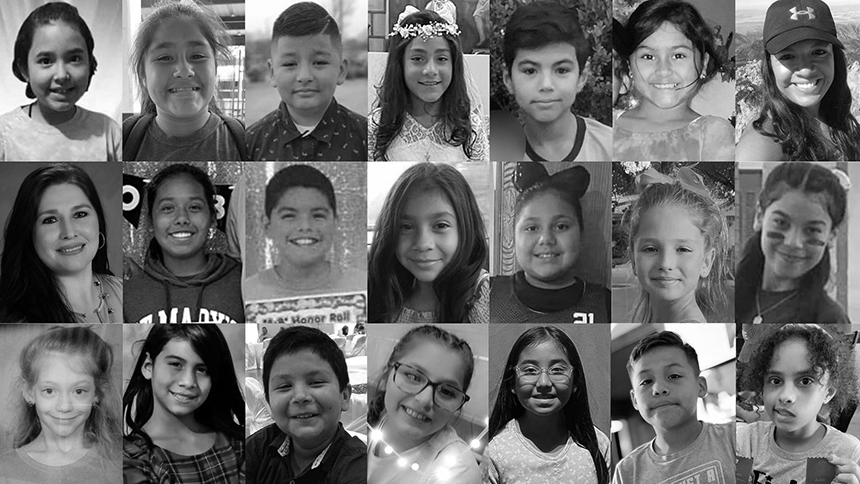
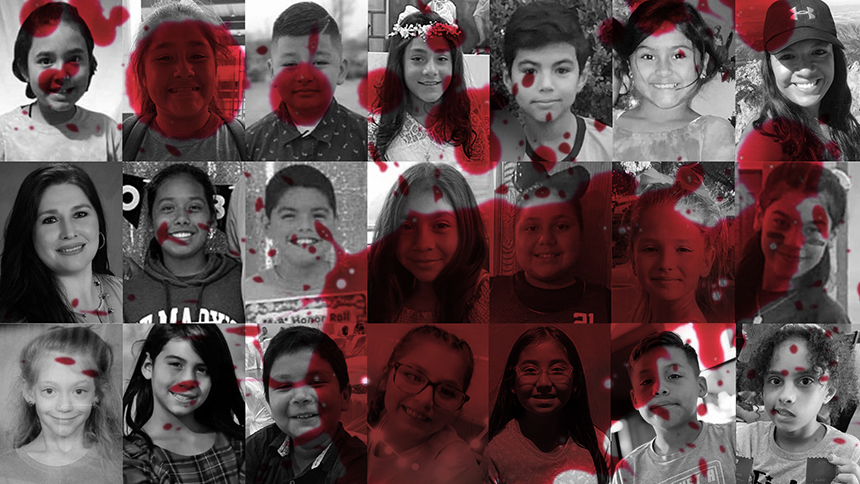
updated

diff --git a/sketch.js b/sketch.js
@@ -10,9 +10,9 @@ let particles = [];
 let coverfont, storyfont,shoot;
 
 function preload() {
-    coverOneImage = loadImage("image/gunandrose.png"); 
-    page2Aim = loadImage("image/aim.png");
-    roseforpg2 = loadImage("image/rose2.png");
+    coverOneImage = loadImage("image/cover.jpg"); 
+    page2Aim = loadImage("image/aim2.png");
+    heartforpg2 = loadImage("image/heart.png");
     Bullet = loadImage("image/bulle.png");
     Victims = loadImage("victims.jpg");
     img = loadImage('victims.jpg');
@@ -32,7 +32,7 @@ function setup() {
 function draw() {
     background(greybgcolor);
     currentScene.display();
-    if (currentScene instanceof PageFour) {
+    if (currentScene instanceof PageFive) {
         currentScene.update();
     }
 }
@@ -59,10 +59,13 @@ class CoverOne {
     }
 
     display() {
-        let x = (width - 600) / 2;
-        let y = (height - 480 - 100) / 2;
-        image(this.img, x, y, 600, 480); 
+        // let x = (width - 600) / 2;
+        // let y = (height - 480 - 100) / 2;
+        let x =0 ;
+        let y =0 ;
+        image(this.img, x, y, 800, 600); 
         fill(this.buttonColor);
+        noStroke();
         rect(this.button.x, this.button.y, this.button.w, this.button.h);
         fill(255);
         textSize(25);
@@ -80,8 +83,9 @@ class CoverOne {
 class PageTwo {
     constructor() {
         this.aim = page2Aim;
-        this.rose = roseforpg2;
+        this.heart = heartforpg2;
         this.bullet = Bullet;
+        // to replace my mouse
     }
 
     display() {
@@ -102,11 +106,11 @@ class PageTwo {
             } else {
                 this.roseHovered = false; // Mouse is not over the rose
             }
-            image(this.rose, 100 + offsetX, 200, scaledRoseWidth, scaledRoseHeight); // Adjust size
+            image(this.heart, 100 + offsetX, 200, scaledRoseWidth, scaledRoseHeight); // Adjust size
         }
-        let constrainedMouseX = constrain(mouseX-400, -200, 800 - 600);
-        let constrainedMouseY = constrain(mouseY-200, 0, 600 - 450);
-        image(this.aim, constrainedMouseX, constrainedMouseY, img.width, 500);
+        let constrainedMouseX = constrain(mouseX-150, 0, 600);
+        let constrainedMouseY = constrain(mouseY-150, 0, 600);
+        image(this.aim, constrainedMouseX, constrainedMouseY, 300,300);
         for (let i = 0; i < 3; i++) {
             let offsetX = i * 80;
             image(this.bullet, 550 + offsetX, 40, 60, 30);
@@ -138,14 +142,14 @@ class Particle {
         let distanceToTarget = fromParticleToTarget.mag();
         let distanceToMouse = fromMouseToParticle.mag();
 
-        if (distanceToMouse < 100) {
-            let repulsionForce = map(distanceToMouse, 0, 100, MAX_FORCE, MIN_FORCE);
+        if (distanceToMouse < 150) {
+            let repulsionForce = map(distanceToMouse, 0, 200, MAX_FORCE, MIN_FORCE);
             fromMouseToParticle.setMag(repulsionForce);
             totalForce.add(fromMouseToParticle);
         }
 
-        if (distanceToMouse > 100) {
-            let attractionForce = map(distanceToTarget, 0, 100, MIN_FORCE, MAX_FORCE);
+        if (distanceToMouse > 250) {
+            let attractionForce = map(distanceToTarget, 10, 200, MIN_FORCE, MAX_FORCE);
             fromParticleToTarget.setMag(attractionForce);
             totalForce.add(fromParticleToTarget);
         }
@@ -177,10 +181,11 @@ class PageThree {
     display() {
         background(0);
        fill(255);
-  textSize(40);
+
+      textSize(20);
   
   for (let i = 0; i < storyText.length; i++ ){
-  text(storyText[i], 20, 80 + i *100,width-70);
+  text(storyText[i], 80, height/2 + i *100,width-150);
   }
         this.particles.forEach((particle) => {
           
@@ -191,7 +196,50 @@ class PageThree {
     }
 }
 
+//back into shooting agian
 class PageFour {
+
+  constructor() {
+    this.aim = page2Aim;
+    this.heart = heartforpg2;
+    this.bullet = Bullet;
+    // to replace my mouse
+}
+
+display() {
+    fill(255);
+    textSize(45);
+    // text("Welcome to Page two", 150, 450);
+    for (let i = 0; i < 2; i++) { 
+        let offsetX = i * 180; // spacing
+        let scaledRoseWidth = 180; // orginal size
+        let scaledRoseHeight = 180; // orginal size
+       
+        // hover effect
+        if (mouseX >= 100 + offsetX && mouseX <= 100 + offsetX + scaledRoseWidth &&
+            mouseY >= 200 && mouseY <= 200 + scaledRoseHeight) {
+            scaledRoseWidth = 220; // Increase the width
+            scaledRoseHeight = 220; // Increase the height
+            this.roseHovered = true;  // mouse is hover rose
+        } else {
+            this.roseHovered = false; // Mouse is not over the rose
+        }
+        image(this.heart, 200 + offsetX, 200, scaledRoseWidth, scaledRoseHeight); // Adjust size
+    }
+    let constrainedMouseX = constrain(mouseX-150, 0, 600);
+    let constrainedMouseY = constrain(mouseY-150, 0, 600);
+    image(this.aim, constrainedMouseX, constrainedMouseY, 300,300);
+    //bullets
+    for (let i = 0; i < 2; i++) {
+        let offsetX = i * 80;
+        image(this.bullet, 600 + offsetX, 40, 60, 30);
+    }
+}
+
+}
+
+
+class PageFive {
     constructor() {
         this.textx = 50;
         this.texty = 50;
@@ -379,7 +427,7 @@ class PageFour {
     }
 }
 
-class PageFive {
+class PageSix {
     constructor() {}
 
     display() {
@@ -403,6 +451,7 @@ function mousePressed() {
     } else if (currentScene instanceof PageThree){
         currentScene = new PageFour(); 
        } else if (currentScene instanceof PageFour){
+        shoot.play();
         currentScene = new PageFive(); 
       
       currentScene.startAnimation = true; 
